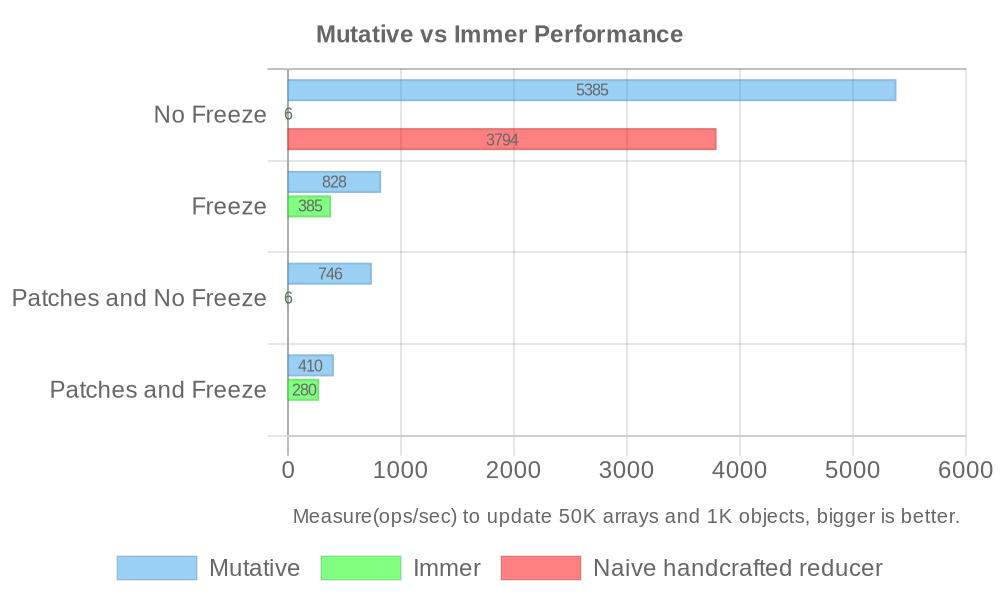
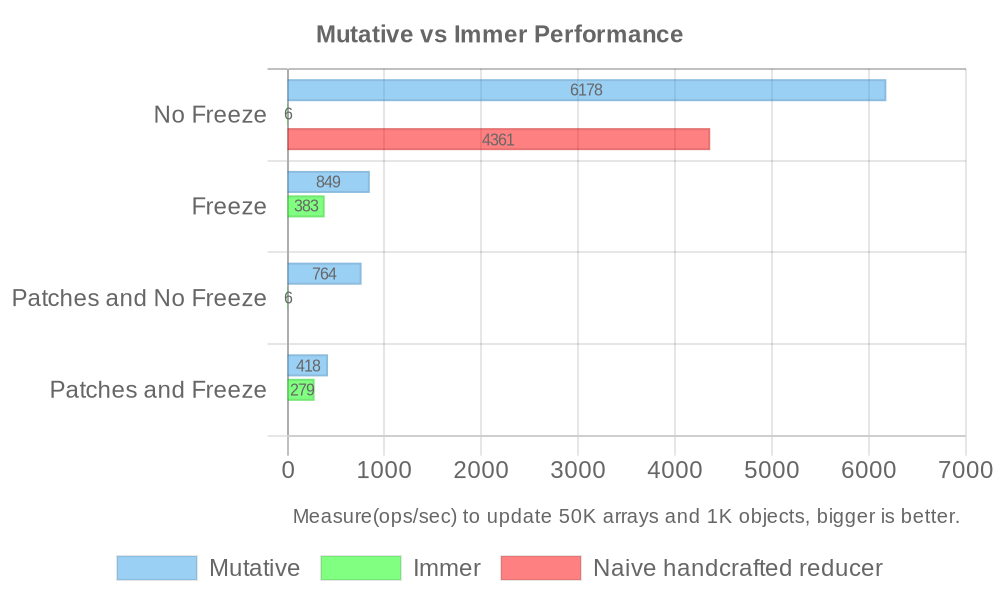
docs(benchmark): update benchmark

diff --git a/README.md b/README.md
@@ -81,23 +81,23 @@ This is why Mutative was created.
 
 > Mutative passed all of Immer's test cases.
 
-Measure(ops/sec) to update 50K arrays and 1K objects, bigger is better([view source](https://github.com/unadlib/mutative/blob/main/test/performance/benchmark.ts)). [Mutative v0.5.0 vs Immer v10.0.1]
+Measure(ops/sec) to update 50K arrays and 1K objects, bigger is better([view source](https://github.com/unadlib/mutative/blob/main/test/performance/benchmark.ts)). [Mutative v0.7.1 vs Immer v10.0.3]
 
 ![Benchmark](benchmark.jpg)
 
 ```
-Naive handcrafted reducer - No Freeze x 3,692 ops/sec ±1.28% (95 runs sampled)
-Mutative - No Freeze x 5,425 ops/sec ±1.70% (93 runs sampled)
-Immer - No Freeze x 5.08 ops/sec ±0.58% (17 runs sampled)
+Naive handcrafted reducer - No Freeze x 4,361 ops/sec ±0.99% (90 runs sampled)
+Mutative - No Freeze x 6,178 ops/sec ±1.41% (95 runs sampled)
+Immer - No Freeze x 5.79 ops/sec ±0.33% (19 runs sampled)
 
-Mutative - Freeze x 818 ops/sec ±1.49% (96 runs sampled)
-Immer - Freeze x 357 ops/sec ±0.79% (92 runs sampled)
+Mutative - Freeze x 849 ops/sec ±0.19% (96 runs sampled)
+Immer - Freeze x 383 ops/sec ±0.77% (94 runs sampled)
 
-Mutative - Patches and No Freeze x 746 ops/sec ±0.83% (96 runs sampled)
-Immer - Patches and No Freeze x 5.08 ops/sec ±0.25% (17 runs sampled)
+Mutative - Patches and No Freeze x 764 ops/sec ±0.20% (96 runs sampled)
+Immer - Patches and No Freeze x 5.72 ops/sec ±0.34% (19 runs sampled)
 
-Mutative - Patches and Freeze x 408 ops/sec ±0.28% (96 runs sampled)
-Immer - Patches and Freeze x 264 ops/sec ±0.59% (91 runs sampled)
+Mutative - Patches and Freeze x 418 ops/sec ±1.23% (94 runs sampled)
+Immer - Patches and Freeze x 279 ops/sec ±0.54% (90 runs sampled)
 
 The fastest method is Mutative - No Freeze
 ```
@@ -108,7 +108,7 @@ Run `yarn benchmark` to measure performance.
 
 Immer relies on auto-freeze to be enabled, if auto-freeze is disabled, Immer will have a huge performance drop and Mutative will have a huge performance lead, especially with large data structures it will have a performance lead of more than 50x.
 
-So if you are using Immer, you will have to enable auto-freeze for performance. Mutative is disabled auto-freeze by default. With the default configuration of both, we can see the 17x performance gap between Mutative (`6,421 ops/sec`) and Immer (`365 ops/sec`).
+So if you are using Immer, you will have to enable auto-freeze for performance. Mutative is disabled auto-freeze by default. With the default configuration of both, we can see the 16x performance gap between Mutative (`6,178 ops/sec`) and Immer (`383 ops/sec`).
 
 Overall, Mutative has a huge performance lead over Immer in [more performance testing scenarios](https://github.com/unadlib/mutative/tree/main/test/performance). Run `yarn performance` to get all the performance results locally.
 
